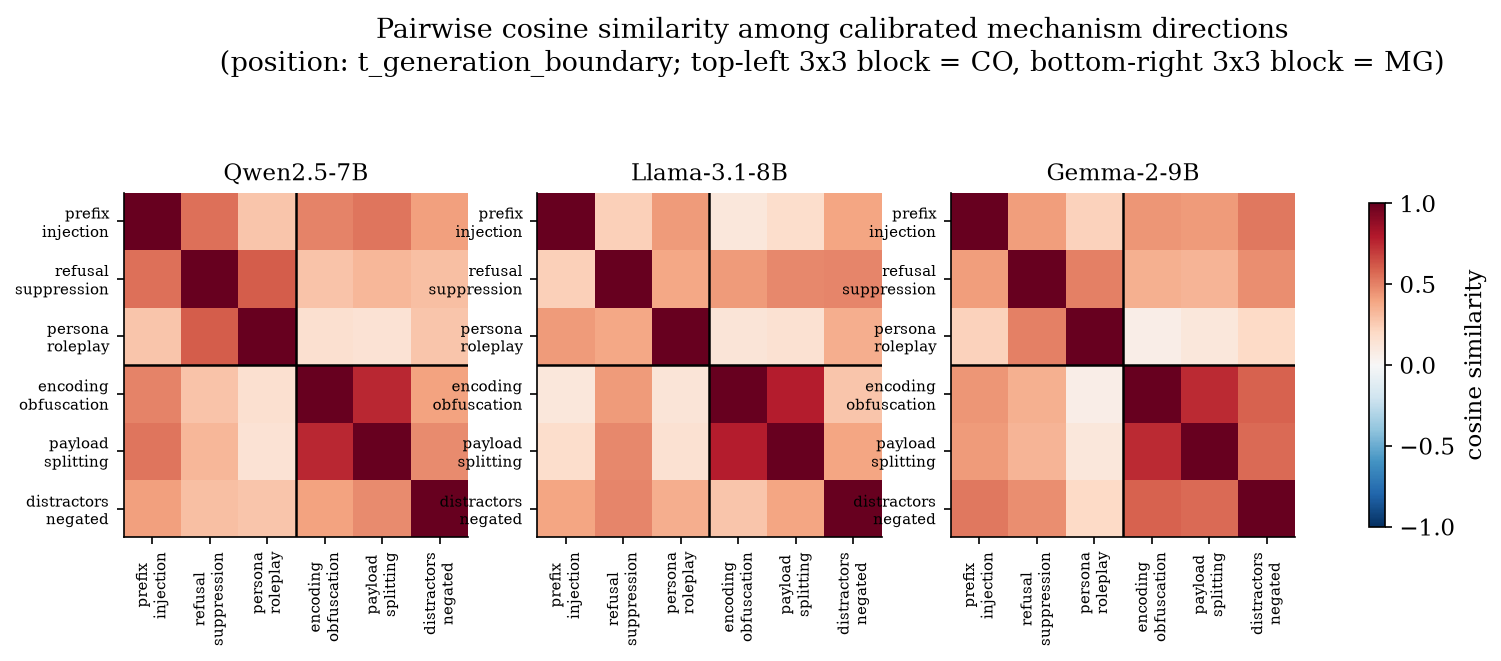
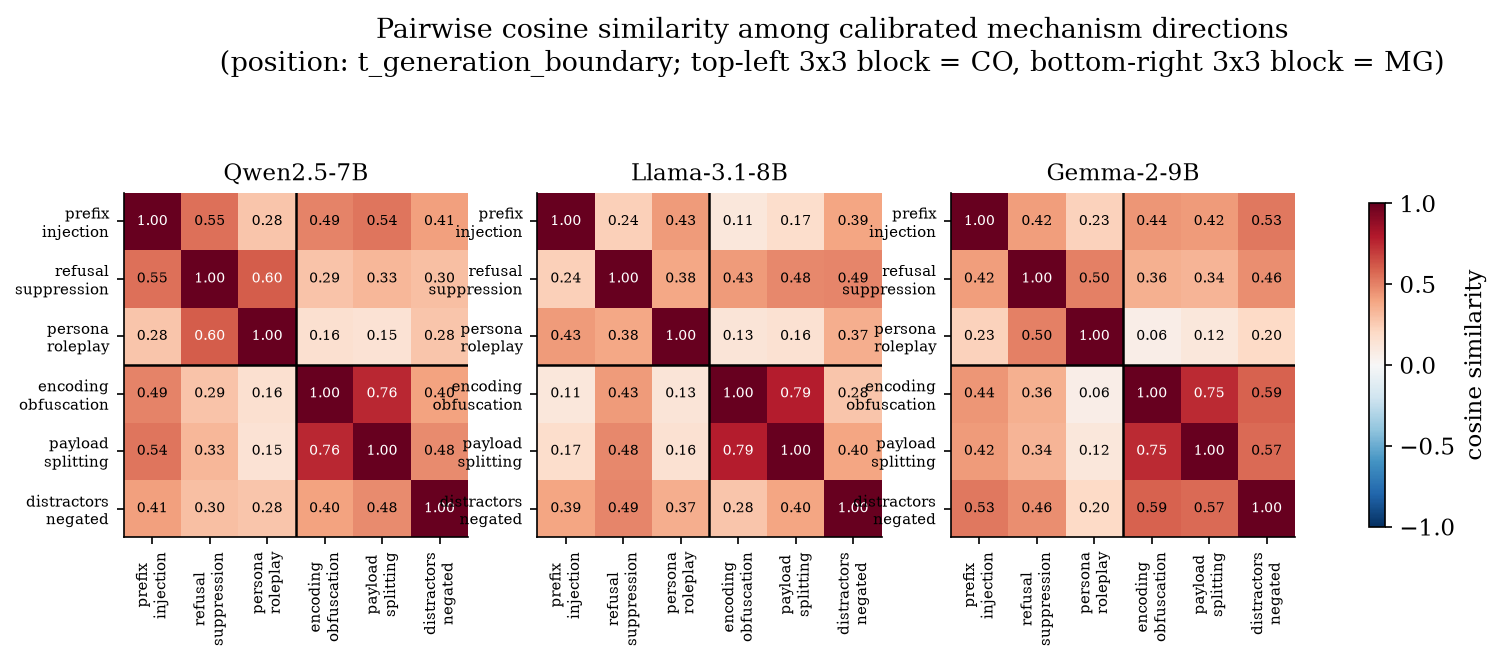
Annotate cosine heatmap cells with numeric values

diff --git a/slurm/plot_experiment1_geometry.py b/slurm/plot_experiment1_geometry.py
@@ -114,6 +114,11 @@ def fig2_cosine_heatmap(data, position, out_dir):
         ax.set_yticklabels(short_labels, fontsize=7)
         ax.axhline(2.5, color="black", linewidth=1.2)
         ax.axvline(2.5, color="black", linewidth=1.2)
+        for i in range(len(order)):
+            for j in range(len(order)):
+                value = grid[i, j]
+                text_color = "white" if abs(value) > 0.6 else "black"
+                ax.text(j, i, f"{value:.2f}", ha="center", va="center", fontsize=6.5, color=text_color)
         ax.set_title(MODEL_SHORT[m], fontsize=11)
     fig.colorbar(im, ax=axes, shrink=0.7, label="cosine similarity")
     fig.suptitle(f"Pairwise cosine similarity among calibrated mechanism directions\n(position: {position}; top-left 3x3 block = CO, bottom-right 3x3 block = MG)", y=1.08)
